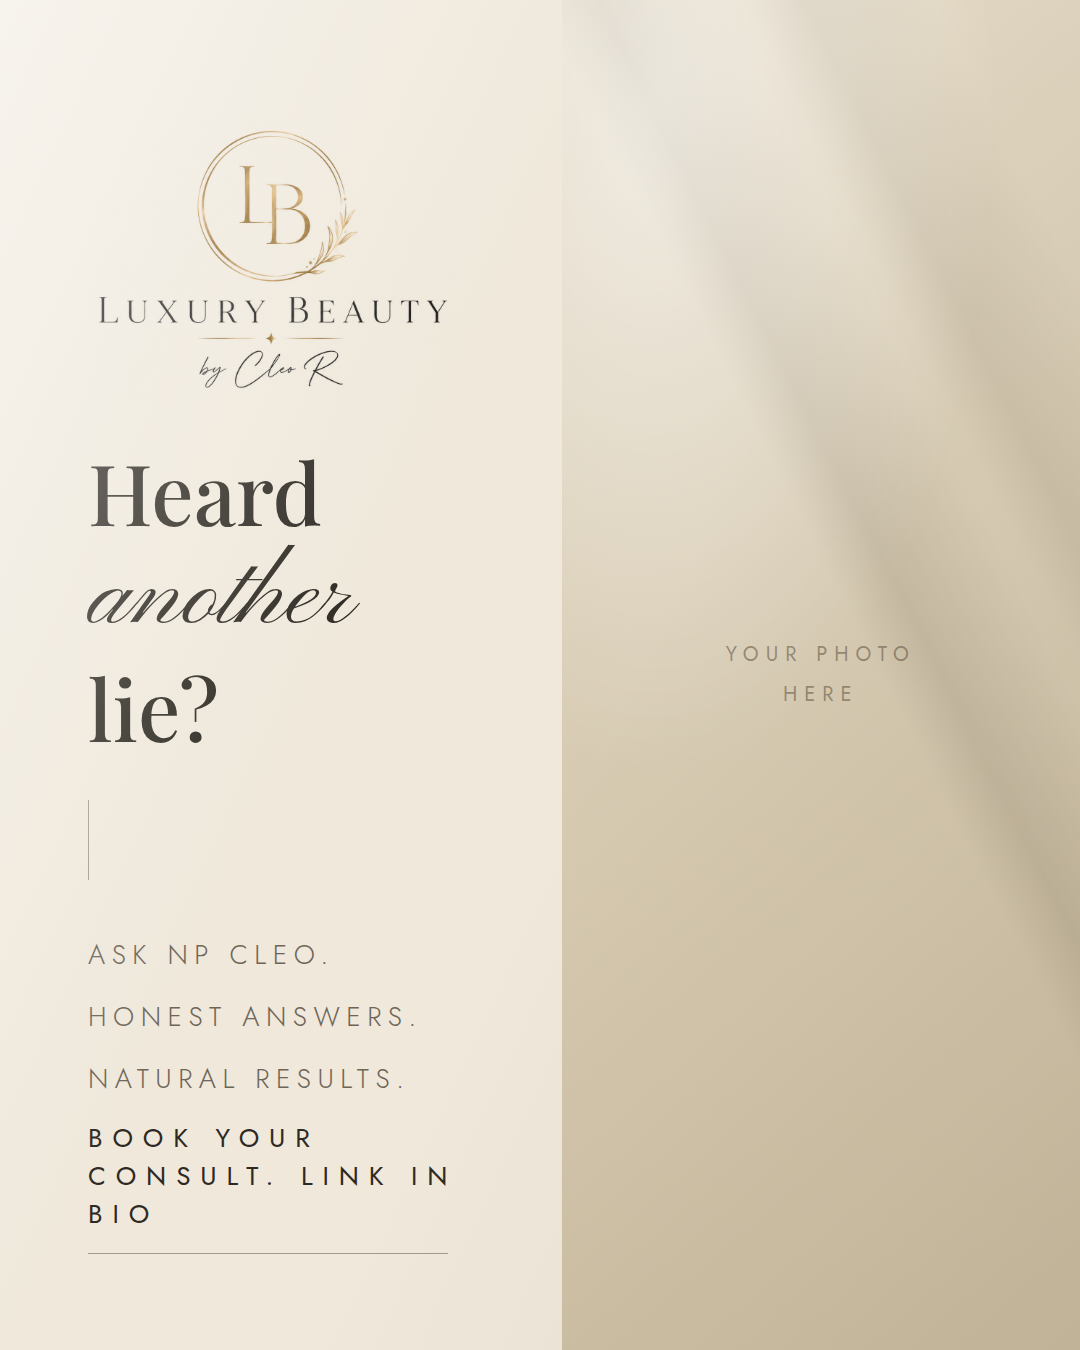
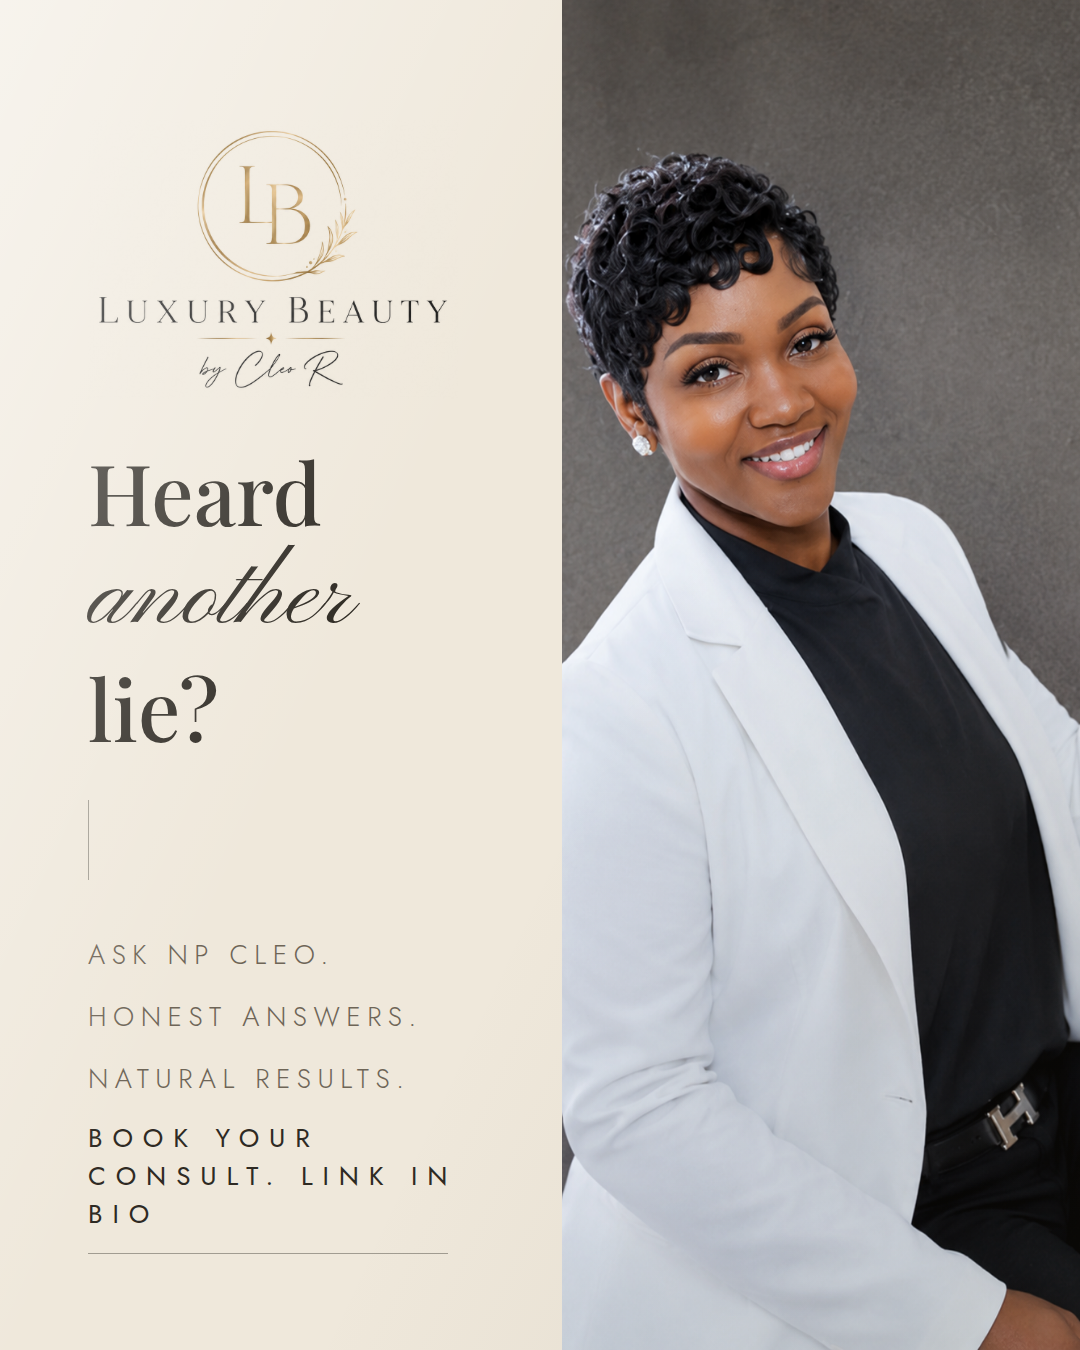
Add NP Cleo portrait to slide 7, remove duplicate upload at repo root
Claude-Session: https://claude.ai/code/session_01SLor5oRycb3mTg2nxeqzj7

diff --git a/design/botox-myths.html b/design/botox-myths.html
@@ -262,7 +262,7 @@
     <div class="cta"><div class="label">Book your consult. Link in bio</div><div class="rule"></div></div>
   </div>
   <div class="right">
-    <div class="photo"><span>your photo<br>here</span></div>
+    <div class="photo has-img"><img src="photos/botox-myths/cleo.png" style="object-position:20% 25%;" alt="NP Cleo"></div>
   </div>
 </div>
 
